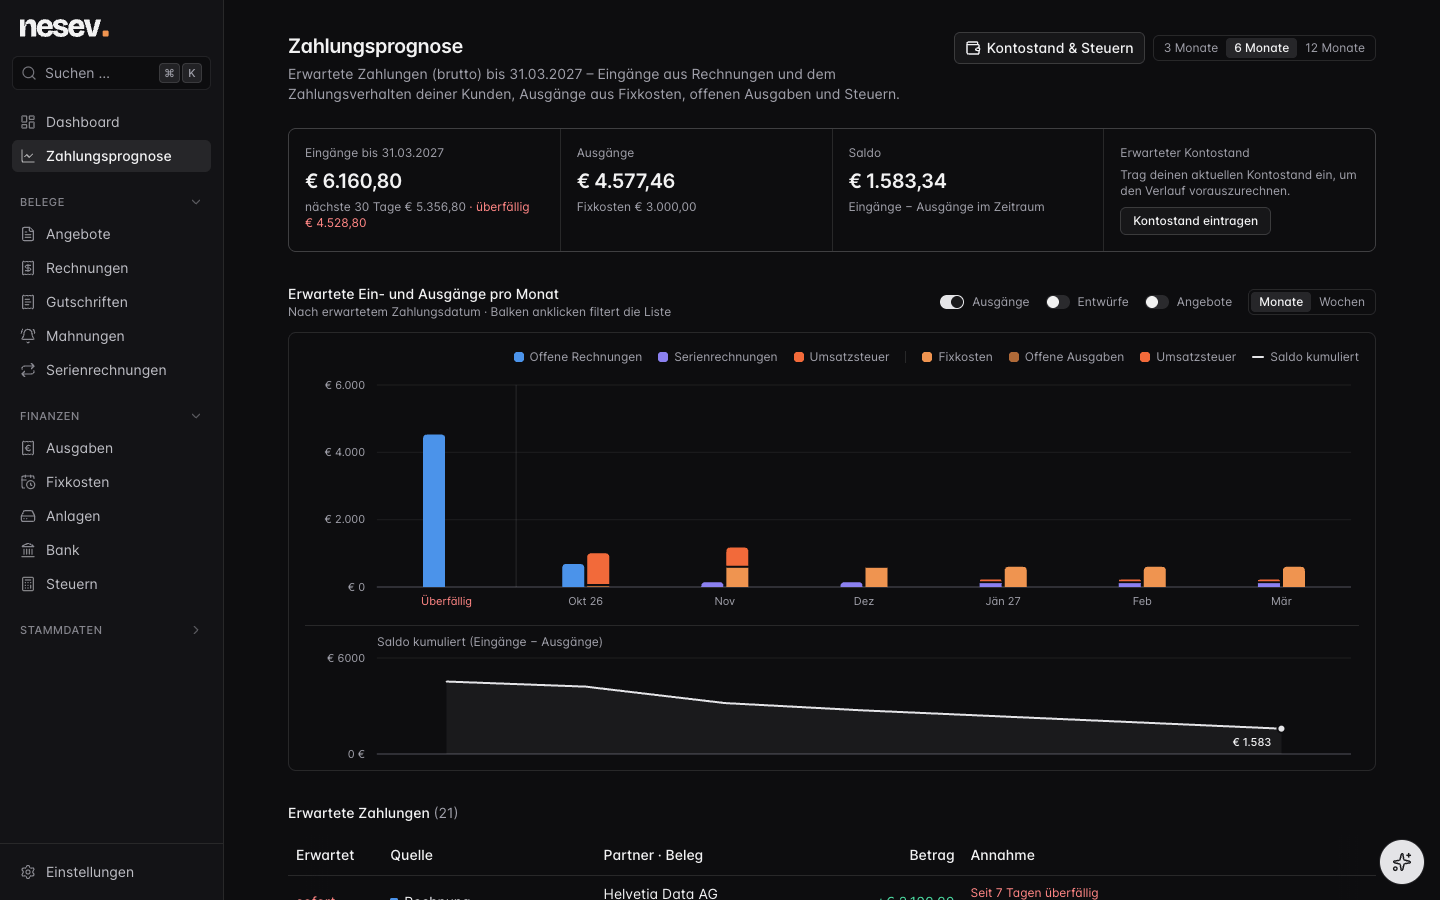
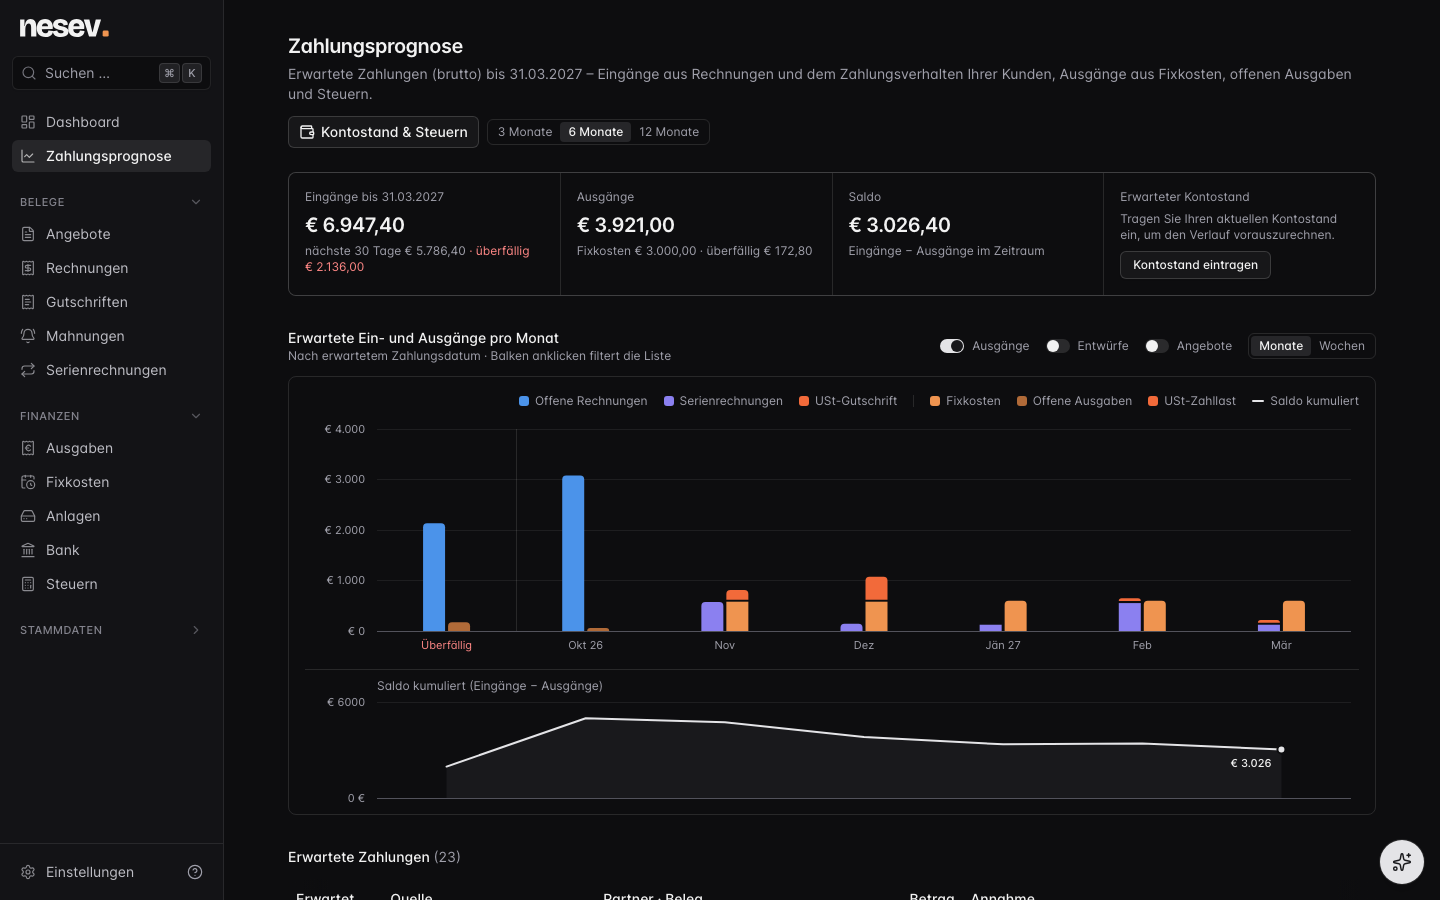
README screenshots retaken from the current demo data (dashboard, invoice, bank, taxes, dark mode) plus the first-start setup
Claude-Session: https://claude.ai/code/session_01KTqMDX8xVuB7spRMMzh8sB

diff --git a/README.md b/README.md
@@ -218,7 +218,12 @@ All variables, with explanations: [.env.example](.env.example).
 
 ## Where your data lives
 
+<p align="center">
+  <img src="docs/screenshots/setup.png" alt="First-start setup: choosing the data folder" width="720">
+</p>
+
 On the first start nesev asks for a data folder and suggests:
+
 
 - the app-data folder of your system (**recommended**): macOS `~/Library/Application Support/nesev/Daten`, Linux
   `~/.local/share/nesev`, Windows `%LOCALAPPDATA%\nesev\Daten`;
